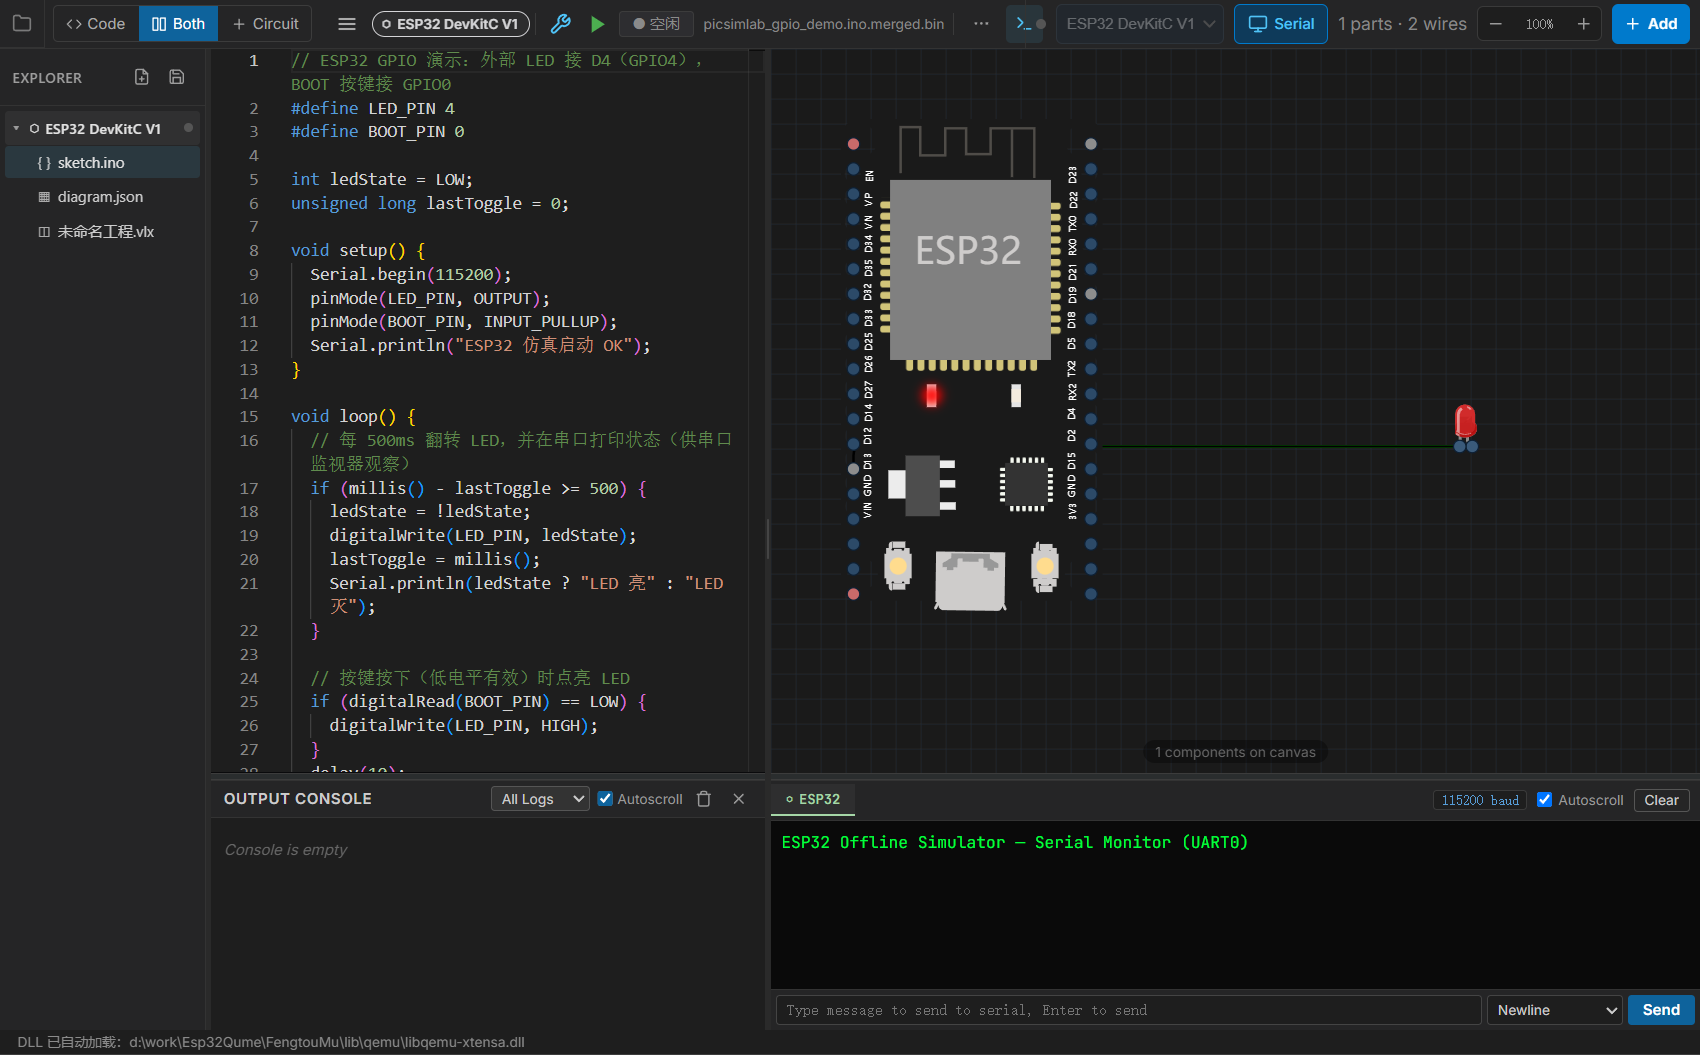
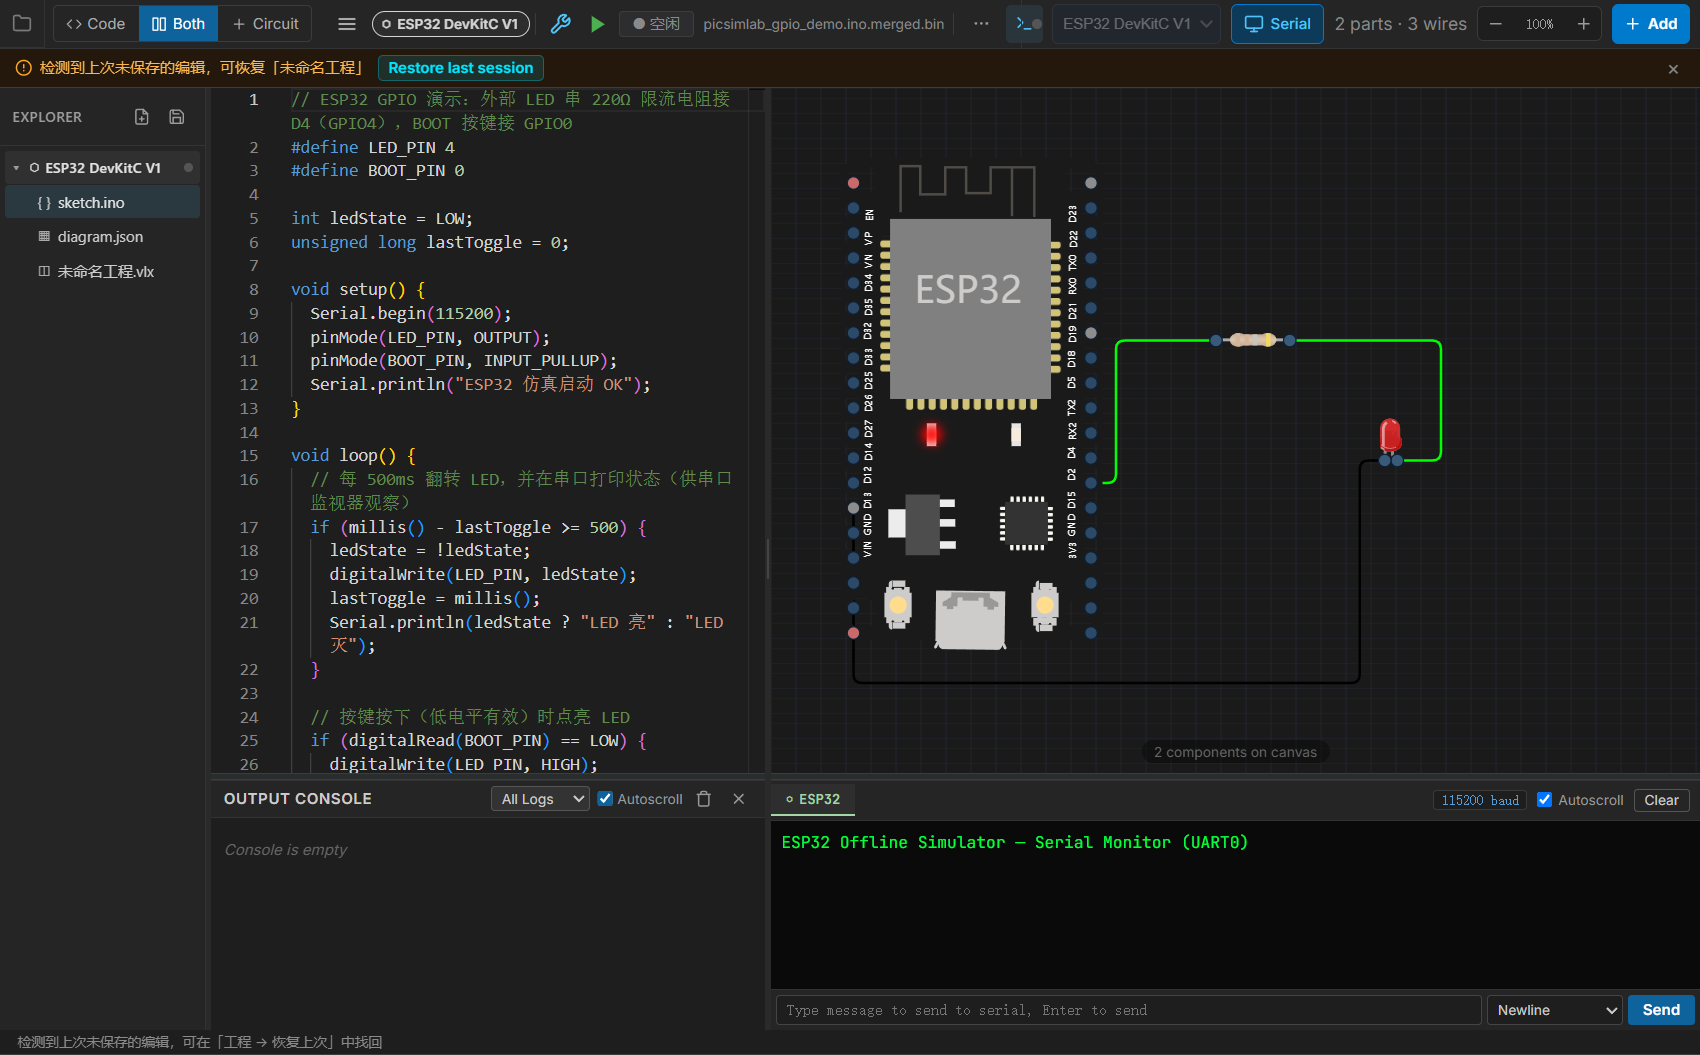
fix(project): 打开应用始终显示默认电路（不因残留会话覆盖）+ 默认电路加 220Ω 限流电阻（D4→r1→LED→GND，正交布线）；自动化 C 断言改相对、F 断言 3 元件 3 线

diff --git a/src/project/defaults.ts b/src/project/defaults.ts
@@ -1,6 +1,6 @@
 /** 工程级默认内容：新建工程时的示例源码。 */
 
-export const DEFAULT_SKETCH = `// ESP32 GPIO 演示：外部 LED 接 D4（GPIO4），BOOT 按键接 GPIO0
+export const DEFAULT_SKETCH = `// ESP32 GPIO 演示：外部 LED 串 220Ω 限流电阻接 D4（GPIO4），BOOT 按键接 GPIO0
 #define LED_PIN 4
 #define BOOT_PIN 0
 
@@ -31,15 +31,17 @@ void loop() {
 }
 `;
 
-/** 新建工程时的默认电路图（Wokwi 格式）：LED 阳极接 D4（GPIO4），阴极接 GND。 */
+/** 新建工程时的默认电路图（Wokwi 格式）：LED 串 220Ω 限流电阻接 D4（GPIO4），阴极接 GND。 */
 export const DEFAULT_DIAGRAM = `{
   "version": 1,
   "parts": [
     { "type": "board-esp32-devkitc", "id": "esp", "top": 40, "left": 40, "attrs": {} },
-    { "type": "wokwi-led", "id": "led1", "top": 260, "left": 520, "attrs": { "color": "red" } }
+    { "type": "wokwi-resistor", "id": "r1", "top": 180, "left": 340, "attrs": { "resistance": "220" } },
+    { "type": "wokwi-led", "id": "led1", "top": 240, "left": 460, "attrs": { "color": "red" } }
   ],
   "connections": [
-    ["led1:A", "esp:D4", "green", []],
-    ["led1:C", "esp:GND.1", "green", []]
+    ["esp:D4", "r1:a", "green", [[260, 300], [260, 186], [340, 186]]],
+    ["r1:b", "led1:A", "green", [[520, 186], [520, 282], [485, 282]]],
+    ["led1:C", "esp:GND.1", "green", [[455, 282], [455, 460], [50, 460], [50, 320]]]
   ]
 }`;

diff --git a/src/state/projectStore.ts b/src/state/projectStore.ts
@@ -308,15 +308,14 @@ export function initProject(): Promise<void> {
       void autosave();
     }, AUTOSAVE_INTERVAL_MS);
 
+    // 打开应用即展示默认工作区（默认代码 + 默认电路：LED 阳极接 D4/GPIO4、阴极接 GND），
+    // 与 velxio/circuit-muse 打开即见默认电路一致；上次未保存的编辑以横幅形式提供恢复
+    withDirtySuppressed(() => {
+      importDiagramText(DEFAULT_DIAGRAM);
+      setCode(DEFAULT_SKETCH);
+    });
     if (session) {
       setMsg("检测到上次未保存的编辑，可在「工程 → 恢复上次」中找回");
-    } else {
-      // 无上次会话可恢复：直接展示默认工作区（默认代码 + 默认电路：LED 阳极接 D4/GPIO4、阴极接 GND），
-      // 与 velxio/circuit-muse 打开即见默认电路的行为一致
-      withDirtySuppressed(() => {
-        importDiagramText(DEFAULT_DIAGRAM);
-        setCode(DEFAULT_SKETCH);
-      });
     }
   })();
 }

diff --git a/docs/开发日志.md b/docs/开发日志.md
@@ -403,3 +403,11 @@
 - 用户反馈：双击 esp32-ide.exe 打开后右侧只有一块电路板，没有 LED/连线 —— 因为默认电路（LED 接 D4）只在「新建」时预置，启动时加载的是空画布。
 - 修复：initProject 无上次会话（autosave.vlx）可恢复时，直接应用默认工作区（DEFAULT_DIAGRAM + DEFAULT_SKETCH），与 velxio/circuit-muse 打开即见默认电路的行为一致；有会话则照旧显示「恢复上次编辑」横幅。用 withDirtySuppressed 包裹，避免启动即标脏。
 - 验证：CDP 启动（清理 autosave 后）DOM = 2 元件 / 2 导线 / led1 存在；截图 docs/default_circuit.png。UI 自动化八条链路全过（自动化有 seedAutosave 预置会话，走恢复分支不受影响）。
+
+## 2026-09-15 打开应用始终显示默认电路 + 默认电路加 220Ω 限流电阻
+
+- 用户反馈：打开 exe 后右侧只有一块板（或恢复出上次残留：LED 接 D2、另一脚悬空），"货不对板"。
+- 修复一（会话残留导致看不到默认电路）：initProject 改为**无论有无 session 都先应用默认工作区**（DEFAULT_DIAGRAM + DEFAULT_SKETCH），上次未保存编辑以「恢复上次编辑」横幅形式提供，不再因残留 session 而覆盖成旧内容。
+- 修复二（缺少限流电阻）：DEFAULT_DIAGRAM 加 `wokwi-resistor`（220Ω），连线改为 `esp:D4 → r1:a`、`r1:b → led1:A`、`led1:C → esp:GND.1`，并预置手工正交 waypoints（D4 沿板右缘上行→电阻→LED 阳极右侧进；LED 阴极左侧出→绕板底→GND），不穿板、不交叉；DEFAULT_SKETCH 注释同步。
+- 自动化同步：B 阶段改为 3 元件 3 线（不断言具体值，>=2 即过）；C 阶段导线断言改相对 `wires0+2`（默认电路已 3 线）；F 阶段新建断言改为 3 元件 3 线。
+- 验证：tsc 无错、74 单测全过、release 构建；CDP 保留 autosave 启动 DOM = 3 元件 / 3 线 / led1+r1+恢复横幅都在；截图 docs/default_circuit.png；UI 自动化八条链路全过（B 阶段 LED 翻转 26 次）。
